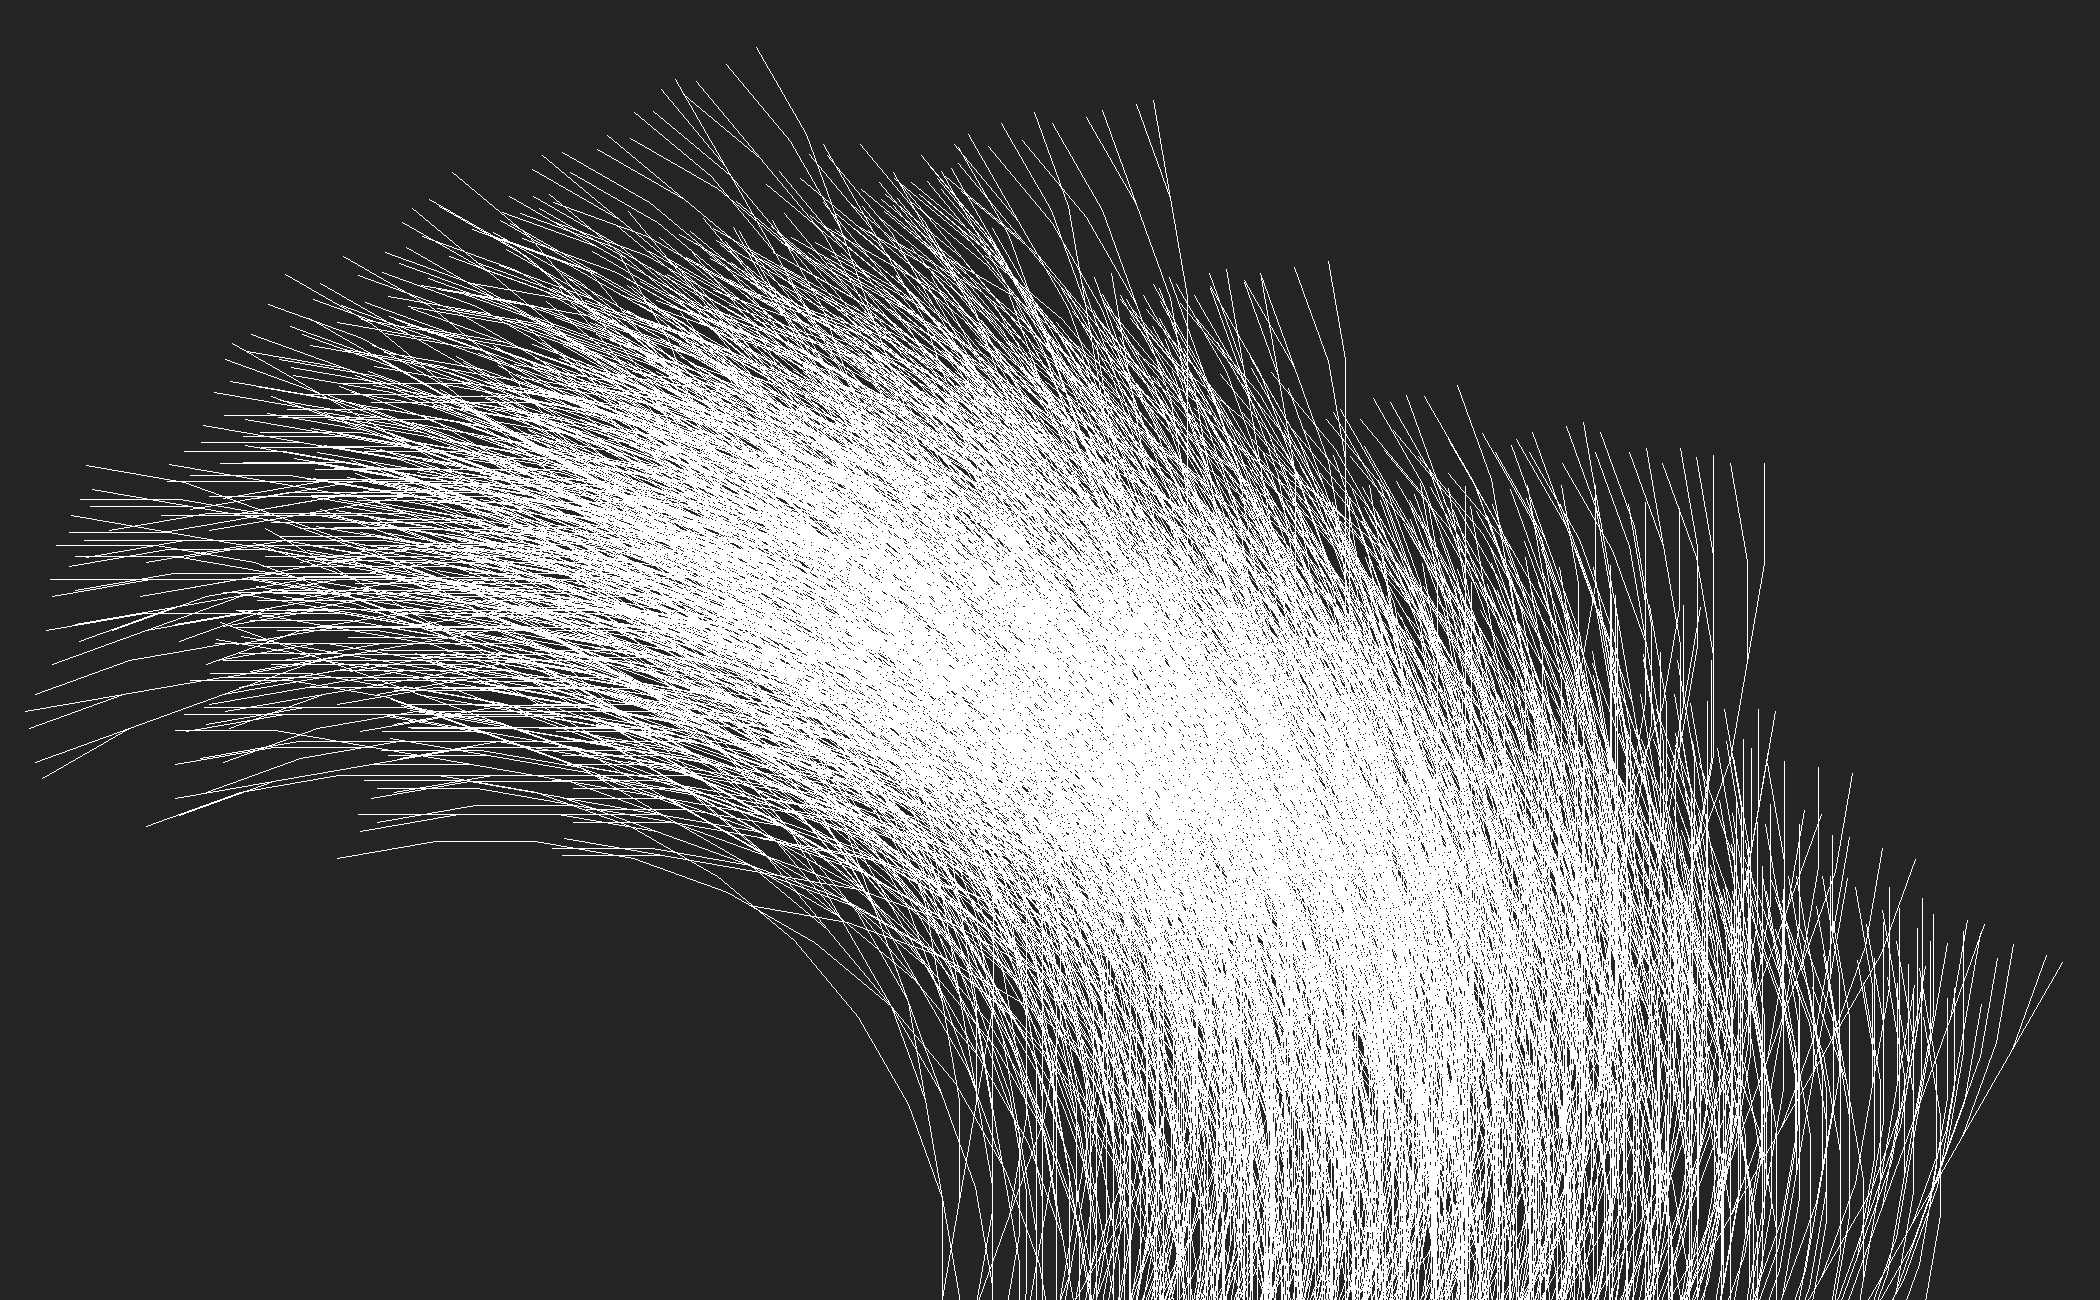
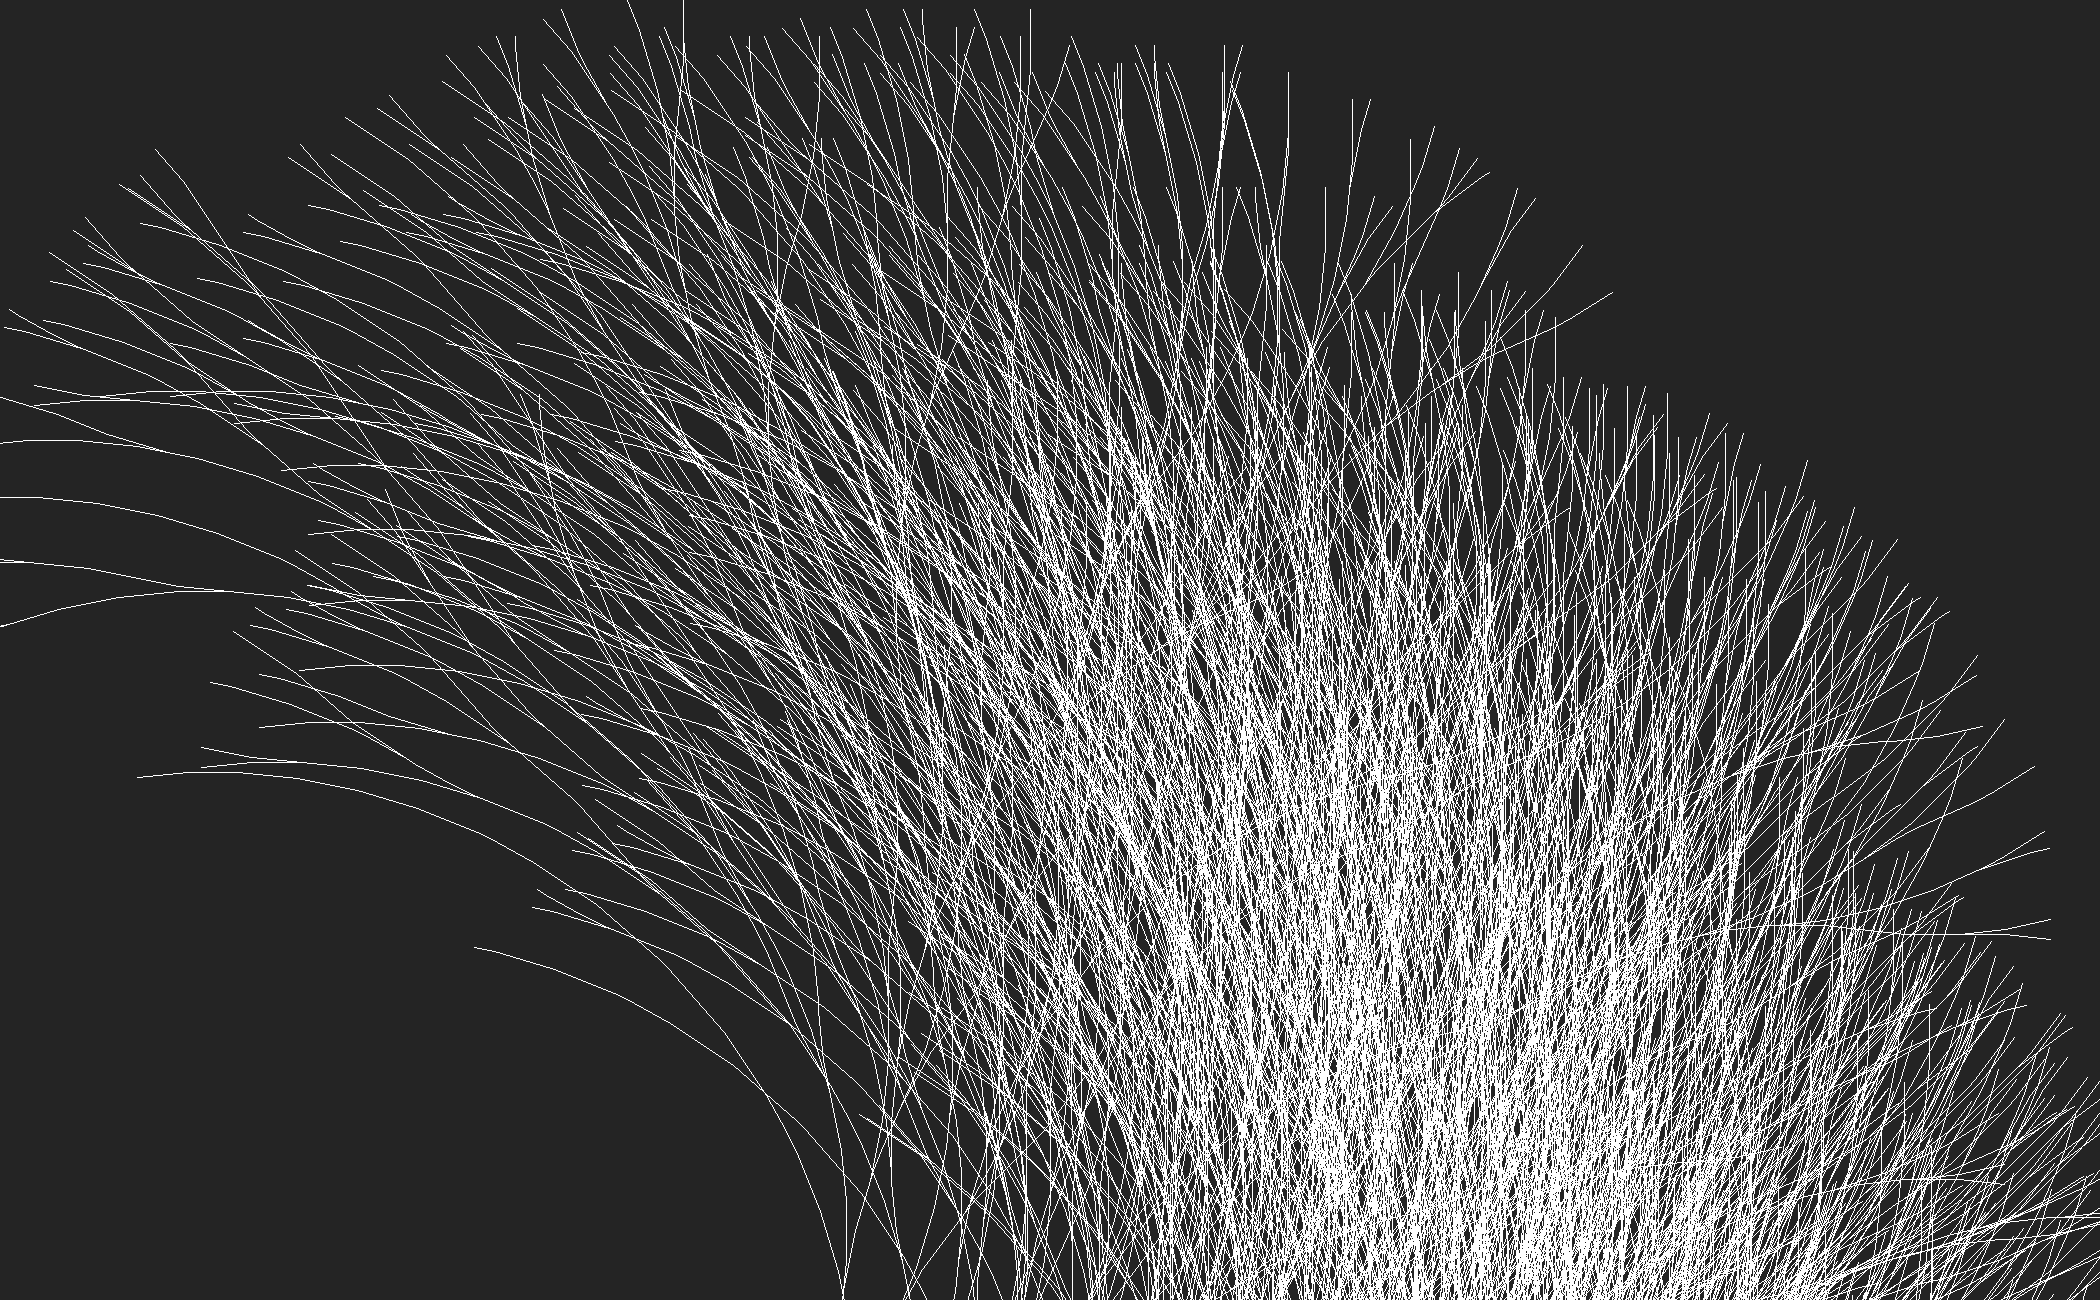
18/10/2021 update

Changed region(s): [[0.031, 0.0308, 1.0, 1.0]]

diff --git a/style.css b/style.css
@@ -197,5 +197,6 @@ input[type="color"] {
   border-width: 0.1rem;
   height: 2rem;
   width: 5rem;
+  margin-top: 1rem;
   cursor: pointer;
 }

diff --git a/defaultGen.py b/defaultGen.py
@@ -9,7 +9,9 @@ def generate(width, height, fg, bkg, n, steps, length, angleincr, angle, exportP
     pt = [(-200), image.size[1]-2]
     points = []
 
-    collatz_up(steps, n, pt, length, angle, angleincr, draw, fg, points)
+    substeps = 10
+
+    collatz_up(steps, substeps, n, pt, length, angle, angleincr, draw, fg, points)
 
     while len(points) > 0:
         for point in points:
@@ -18,7 +20,7 @@ def generate(width, height, fg, bkg, n, steps, length, angleincr, angle, exportP
             pt = [point[2], point[3]]
             angle = point[4]
 
-            collatz_up(steps, n, pt, length, angle,
+            collatz_up(steps, substeps, n, pt, length, angle,
                        angleincr, draw, fg, points)
 
             del points[points.index(point)]
@@ -37,29 +39,38 @@ def is_even(n):
         return False
 
 
-def collatz_up(steps: int, n: int, pt: list, length: int, angle: int, angleincr: int, draw: 'PIL.ImageDraw.ImageDraw', fg: str, points: list) -> None:
+def collatz_up(steps: int, substeps: int, n: int, pt: list, length: int, angle: int, angleincr: int, draw: 'PIL.ImageDraw.ImageDraw', fg: str, points: list) -> None:
     for i in range(steps):
 
         if is_even(n):
-            angle += angleincr
-            
             if (n-1) % 3 == 0:
                 tmp = (n-1)//3
 
                 points.append((steps-i, tmp, pt[0], pt[1], angle))
 
-        else:
-            angle -= angleincr
+            for _ in range(substeps):
+                angle += (angleincr//substeps)
+                incx, incy = increment(angle, length, substeps)
 
-        incx = round(math.sin(math.radians(angle))*length)
-        incy = round(math.cos(math.radians(angle))*length)
+                draw.line((pt[0], pt[1], pt[0]+incx, pt[1]+incy), fill=fg)
+                pt = [pt[0]+incx, pt[1]+incy]
+        else:
+            for _ in range(substeps):
+                angle -= (angleincr//substeps)
+                incx, incy = increment(angle, length, substeps)
+
+                draw.line((pt[0], pt[1], pt[0]+incx, pt[1]+incy), fill=fg)
+                pt = [pt[0]+incx, pt[1]+incy]
+
+        n = n*2
+
+def increment(angle, length, substeps):
+        incx = round(math.sin(math.radians(angle))*length//substeps)
+        incy = round(math.cos(math.radians(angle))*length//substeps)
 
         if angle > 360:
             angle -= 360
-            incx = round(math.sin(math.radians(angle))*length)
-            incy = round(math.cos(math.radians(angle))*length)
-
-        draw.line((pt[0], pt[1], pt[0]+incx, pt[1]+incy), fill=fg)
-        pt = [pt[0]+incx, pt[1]+incy]
-
-        n = n*2
+            incx = round(math.sin(math.radians(angle))*length//substeps)
+            incy = round(math.cos(math.radians(angle))*length//substeps)
+        
+        return incx, incy

diff --git a/main.py b/main.py
@@ -34,5 +34,5 @@ class Api:
 if __name__ == '__main__':
     api = Api()
     window = webview.create_window('Art Generator | Made by Antoine Meloche',
-                                   './index.html', frameless=True, easy_drag=False, js_api=api, resizable=True, min_size=(800,600))
+                                   './index.html', frameless=True, easy_drag=False, js_api=api, resizable=True, min_size=(1200,800))
     webview.start(debug=True)
